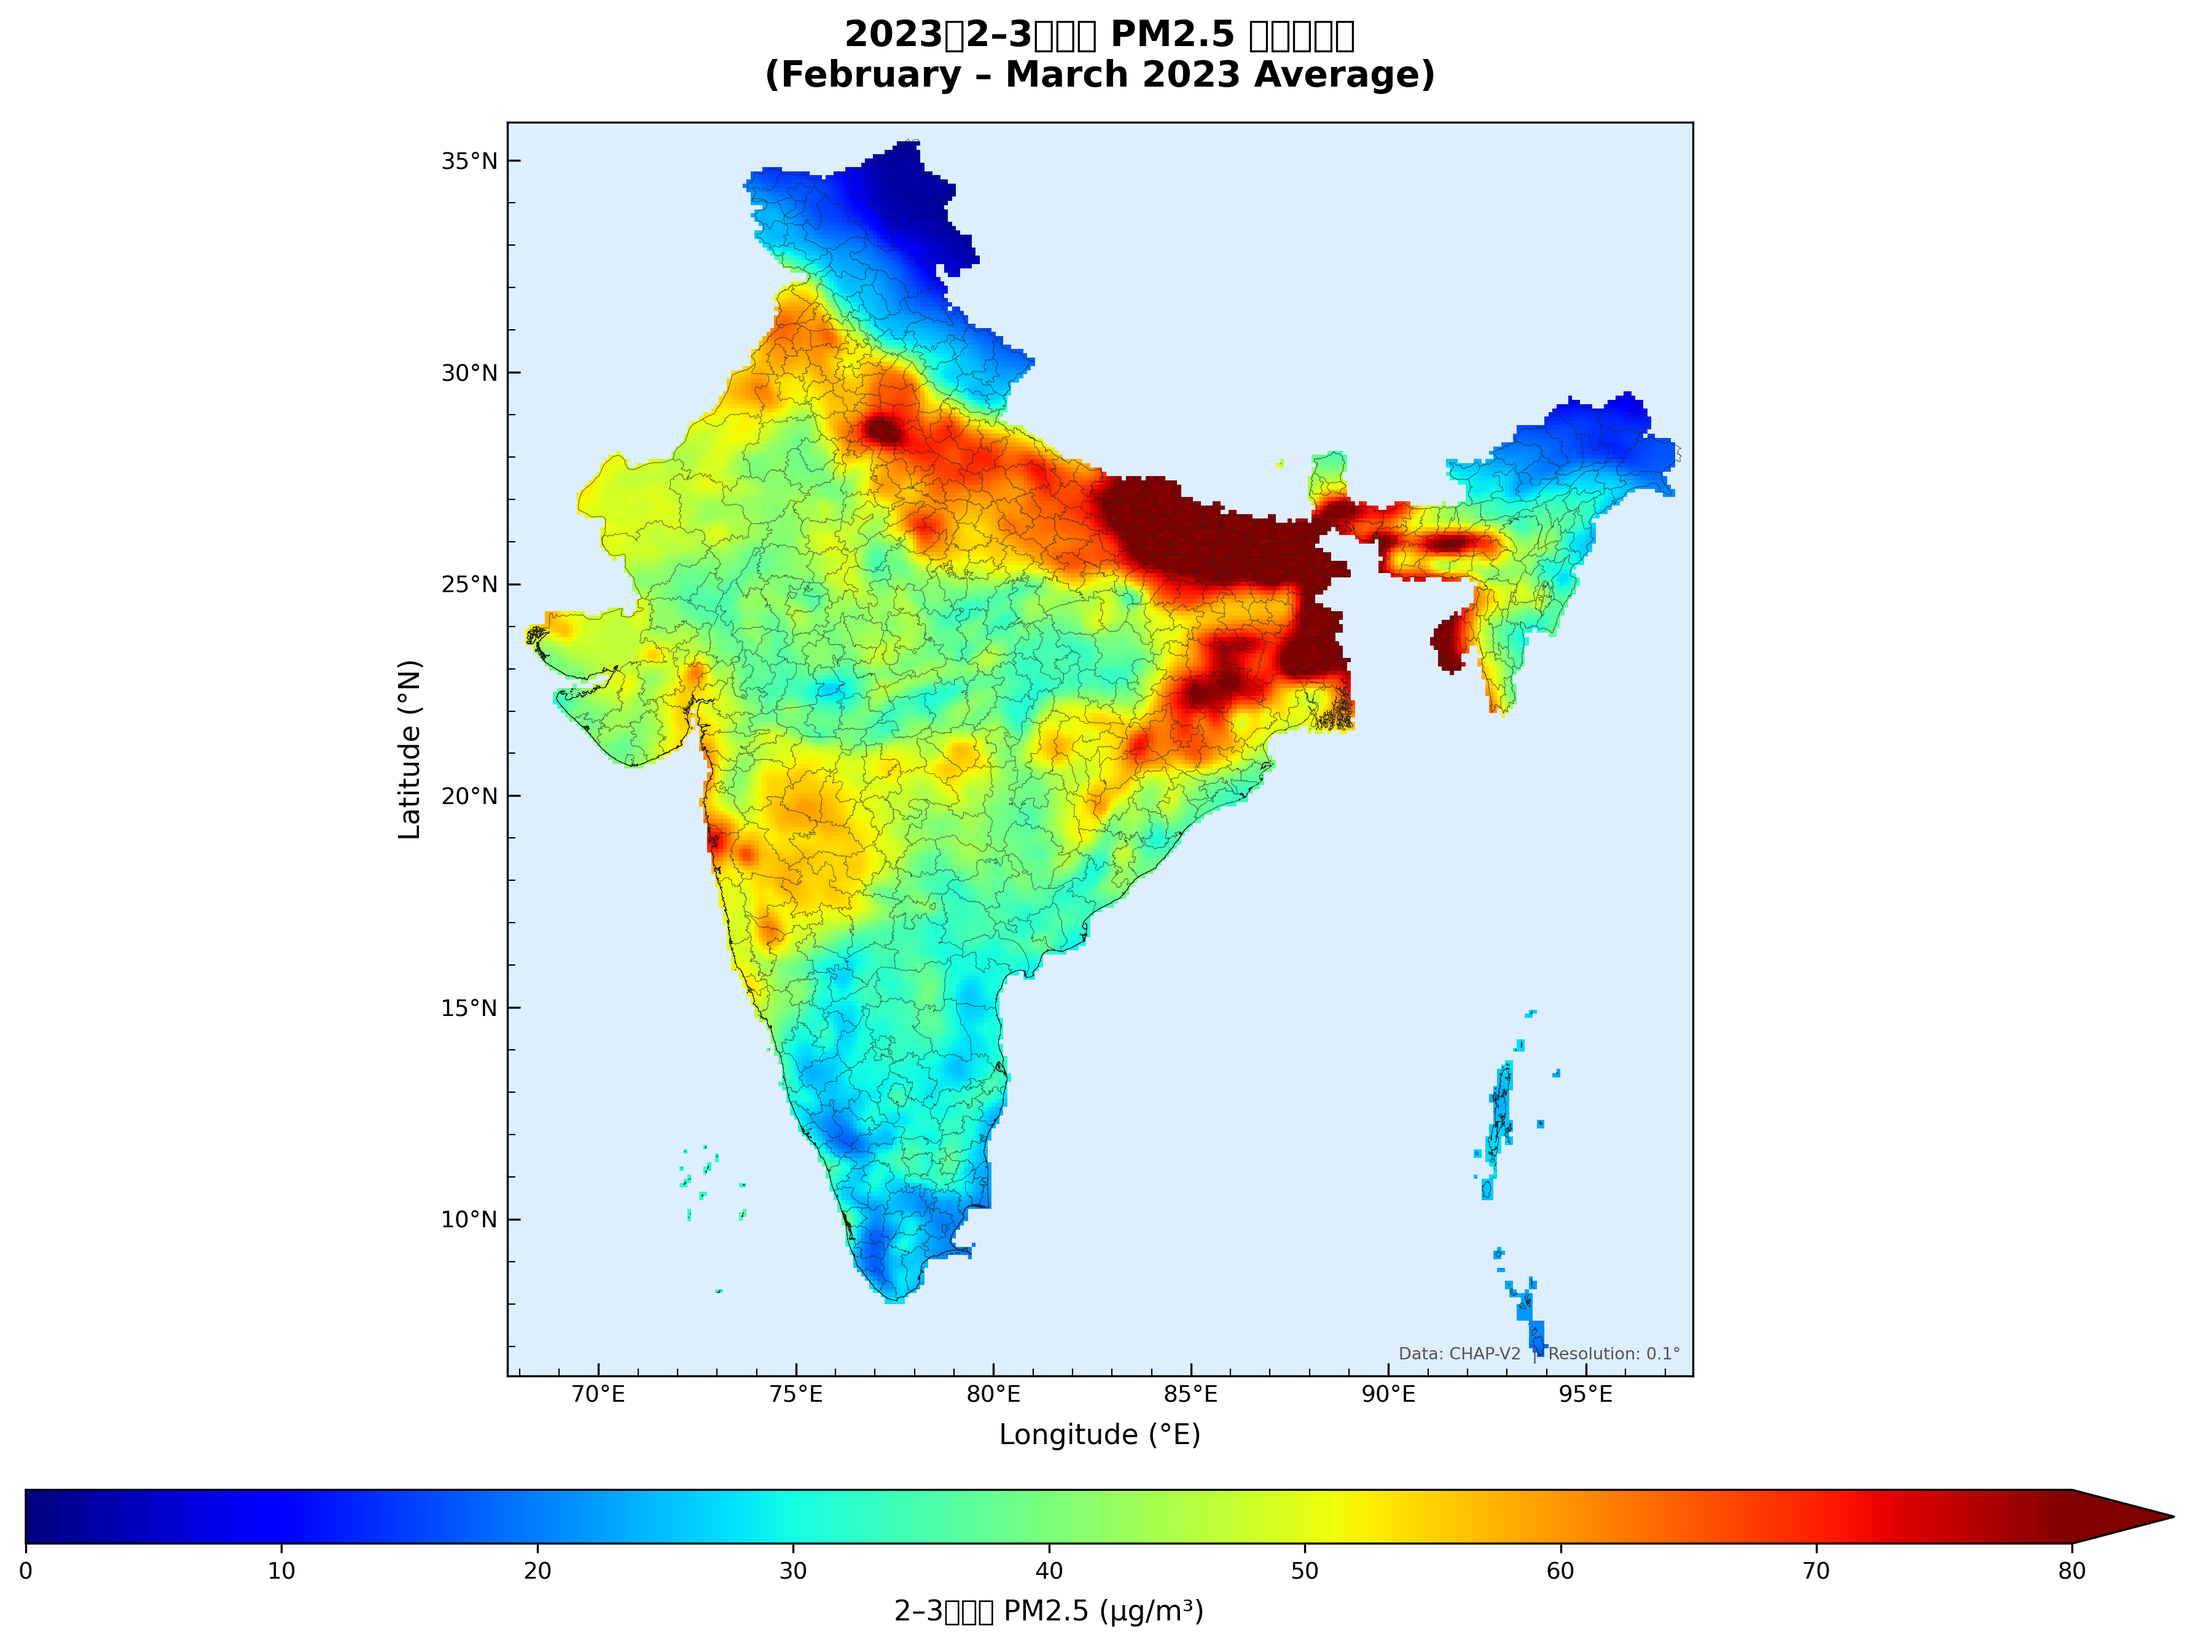
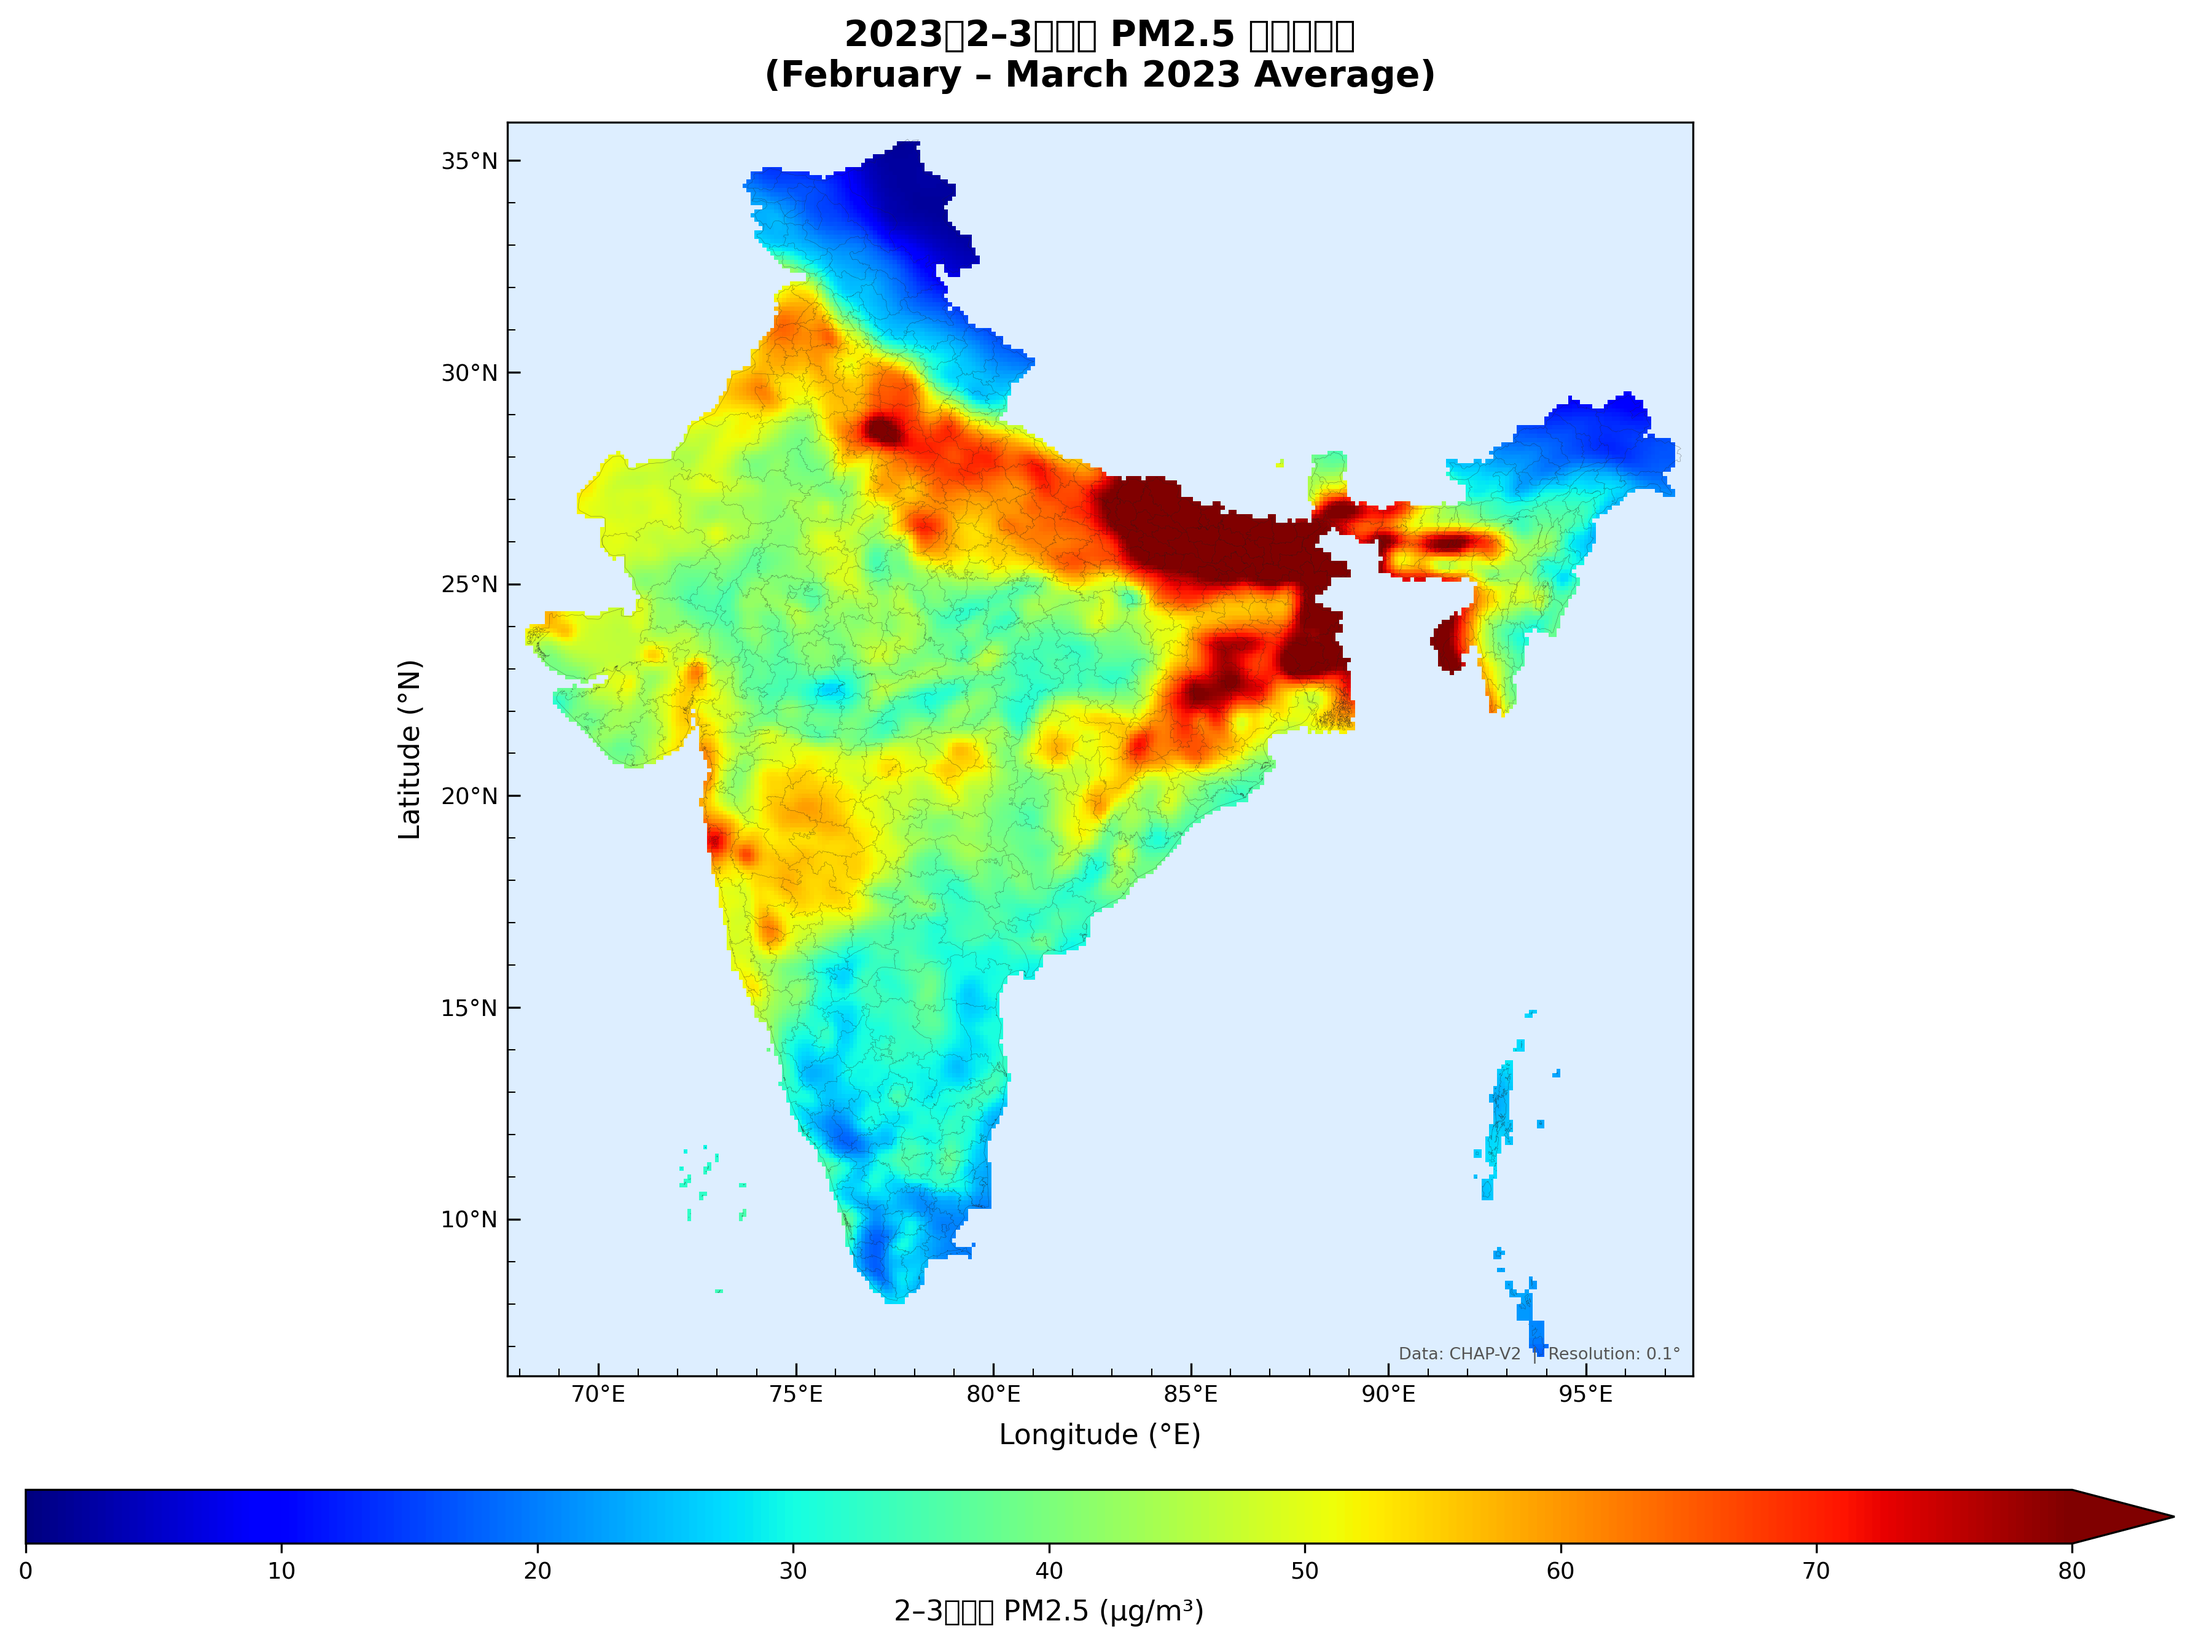
Reduce city boundary visual density with simplification and thinner stroke
Agent-Logs-Url: https://github.com/hhhhccccc/pm25-india-visualization/sessions/9060cdfb-6209-4cc0-9741-25e8401b7927

diff --git a/plot_pm25.py b/plot_pm25.py
@@ -212,16 +212,20 @@ mesh = ax.pcolormesh(
 if use_geojson and india_gdf is not None:
     # Draw only admin-2 (city/county-level) boundaries as a single merged layer
     # to avoid mixed thick/thin appearance caused by overlapping segments.
+    # Simplify linework slightly to reduce visual clutter while preserving
+    # city-level boundaries.
     try:
         linework = india_gdf.boundary.union_all()
+        linework = linework.simplify(0.02, preserve_topology=True)
         gpd.GeoSeries([linework], crs="EPSG:4326").plot(
-            ax=ax, linewidth=0.18, color="#222222", zorder=4
+            ax=ax, linewidth=0.10, color="#222222", alpha=0.70, zorder=4
         )
     except AttributeError:
         # older geopandas compatibility
         linework = india_gdf.boundary.unary_union
+        linework = linework.simplify(0.02, preserve_topology=True)
         gpd.GeoSeries([linework], crs="EPSG:4326").plot(
-            ax=ax, linewidth=0.18, color="#222222", zorder=4
+            ax=ax, linewidth=0.10, color="#222222", alpha=0.70, zorder=4
         )
 else:
     # Draw boundary derived from the land mask using contour at 0.5
